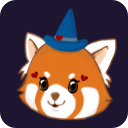
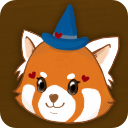
Game update

diff --git a/game/PawtionShop.html b/game/PawtionShop.html
@@ -111,7 +111,7 @@ body {
 
 		<script src="PawtionShop.js"></script>
 		<script>
-const GODOT_CONFIG = {"args":[],"canvasResizePolicy":2,"emscriptenPoolSize":8,"ensureCrossOriginIsolationHeaders":true,"executable":"PawtionShop","experimentalVK":false,"fileSizes":{"PawtionShop.pck":38321940,"PawtionShop.wasm":35754592},"focusCanvas":true,"gdextensionLibs":[],"godotPoolSize":4};
+const GODOT_CONFIG = {"args":[],"canvasResizePolicy":2,"emscriptenPoolSize":8,"ensureCrossOriginIsolationHeaders":true,"executable":"PawtionShop","experimentalVK":false,"fileSizes":{"PawtionShop.pck":43326564,"PawtionShop.wasm":35754592},"focusCanvas":true,"gdextensionLibs":[],"godotPoolSize":4};
 const GODOT_THREADS_ENABLED = false;
 const engine = new Engine(GODOT_CONFIG);
 